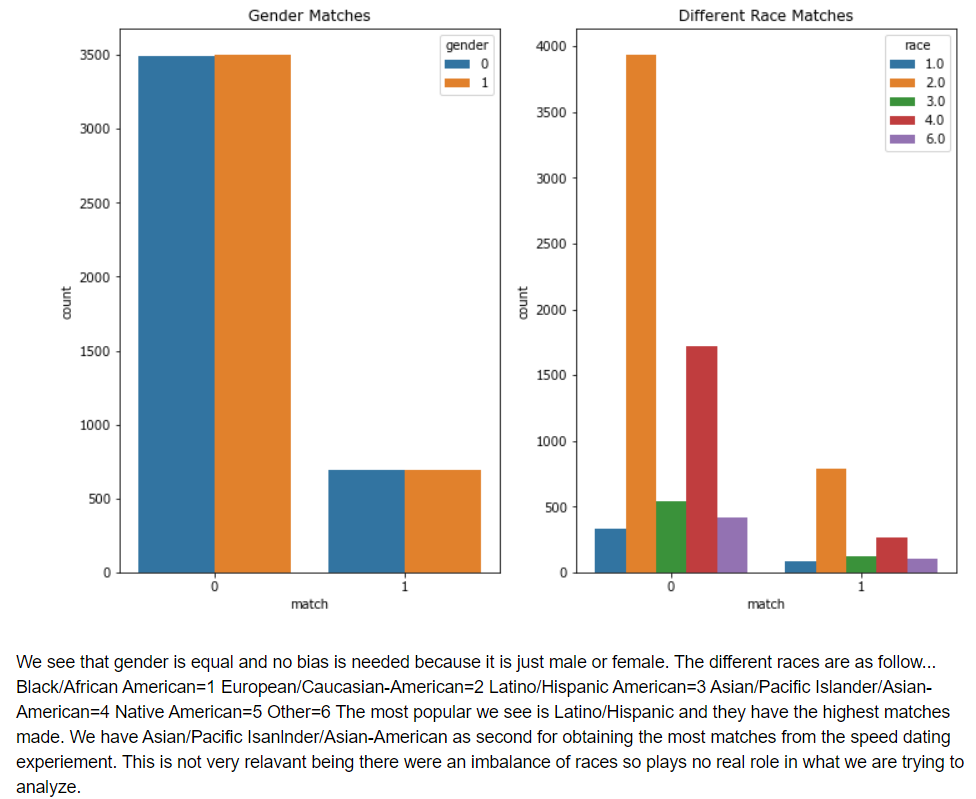
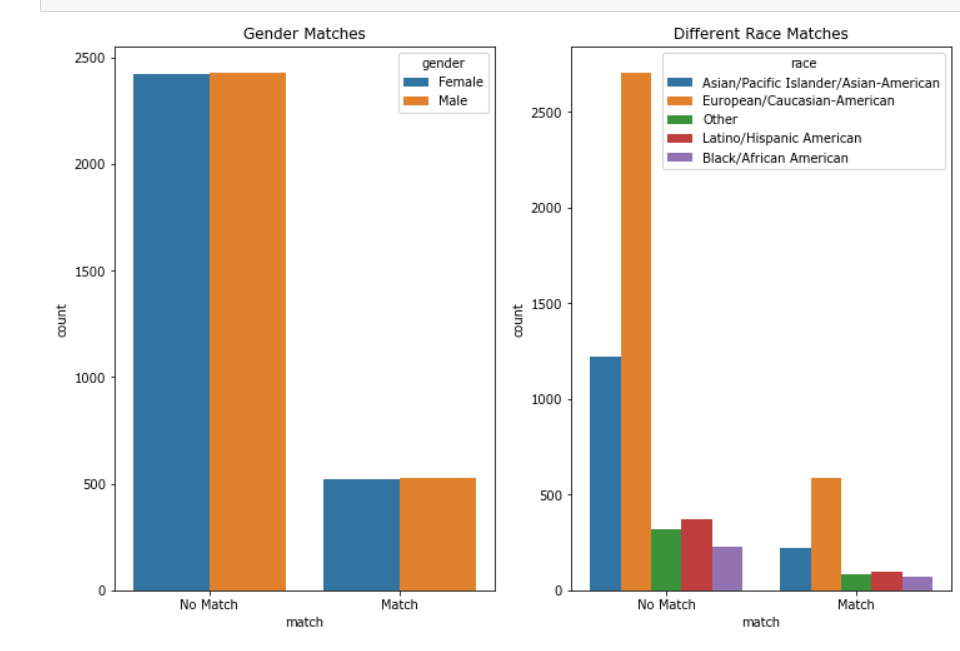
SG3 - KT - Adding images and modifications to the README.md file

Changed region(s): [[0.0, 0.0, 1.0, 1.0]]

diff --git a/README.md b/README.md
@@ -5,7 +5,7 @@ University of Miami, *Data Analytics Boot camp*, Final Project
 # Google Slides Presentation
 https://docs.google.com/presentation/d/e/2PACX-1vQrDJtNu8tUs8CXo1efHpvvtLu_8gVtY2kp-86YUJkOw_ofrlde-w-k8xCqwpE1SxQlDK_w8nynwsA2/pub?start=false&loop=false&delayms=15000
 
-## SEGMENT 1 and Segment 2
+## SEGMENT 1, Segment 2, and Segment 3
 
 ### Participants
 - Gajardoni, Ana
@@ -52,7 +52,7 @@ Fun topic and met requirements for machine learning project.
 
 #### Segment 3 
 - Gajardoni, Ana: Square Role: Complete peer reviews on the code. 
-- Thraher, Kristi: Triangle Role: Create a draft presentation to share with your class.
+- Thraher, Kristi: Triangle Role: Create a presentation to share with your class.
 - Gonzalez, David: Circle Role: Create a dashboard to display your findings.
 
 
@@ -63,24 +63,15 @@ GitHub contains the following requirements:
 * Main Branch
 * ReadME file
 * Individual Branches
-Individual Branches for each teammember were created 
+Individual Branches for each teammember were created in Github.
+https://github.com/DavidGGonzalez/TeamBlue_FinalProject.git
 
-Segment 1
 
-![Github branches](./Images/Github%20branches.png)
-
-Segment 2 
-
-![Segment2GitHubBranches](./Images/Segment2GitHubBranches.png)
-
-Segment 3
-<ADD PIMAGE OF OUR BRanches for segment 3 >
 
 ### Technologies:
 * Application development:  
   * Visual Code
   * Jupyter Notebook
-  * Flask (Web framework)
 
 * Data Management3372defd4526.png)
 
@@ -88,7 +79,7 @@ Segment 3
   * Pandas’ DataFrame
   * PostgreSQL
 
-* Developmen*t Languages, formatting, web visualization
+* Development Languages, formatting, web visualization
   * Python
   * JavaScript
   * HTML
@@ -98,9 +89,6 @@ Segment 3
 
 * Data Visualization
   * Tableau
-
-* Deployment environment
-  *	Heroku
 
 
 ## Machine Learning Model:
@@ -127,12 +115,12 @@ We decided we did not need all of this information so decided to simplify our da
 * Data Exploration/Visualizations 
 * For Fun we decided to see the distribution of matches for age, race, gender with matches and also how many matches were made. 
 
-![RaceAndGender](./Images/RaceAndGender.png)
 
+![RaceAnGender](./Images/RaceAndGender.png)
 
 ![AgeDistribution](./Images/AgeDistribution.png)
 
-![MatchDistribution](./Images/MatchDistribution.png)
+![MMatchDistribution](./Images/MatchDistribution.png)
 
 
 #### Data Cleaning
@@ -208,16 +196,26 @@ We chose to use two different classification algorithms to decide which one perf
 	
 	![LogRegTTE](./Images/LogRegTTE.png)
 	
-	* We see from accuracy score we had 0.6431587123608596 and confusion matrix shows 1160 True Positives, 87 True Negatives, 176 False Positives, and 54 False Negatives. The Classification Report showed an F1 score of .82 and Precision score of .82.    
-	
+	* We see from accuracy score we had 0.64% chance of this model predicting correctly if there is a match or not.  
+  The Classification Report showed an F1 score of .82 and Precision score of .82, and Recall Score of .84. 
 
+
+     -  Note: F1 Score: the mean of precision and recall scores. 
+      Recall: Useful measure of the success of prediction 
+      Accuracy: How good model is at predicting Match or No Match.
+	
 
 	##### Evaluate the BalancedRandomForest Model
 	
 	![RandomForestTTE](./Images/RandomForestTTE.png)
-	
-	* We see from accuracy score we had 0.7650979384995082 and confusion matrix shows 1160 True Positives, 87 True Negatives, 176 False Positives, and 54 False Negatives. The Classification Report showed an F1 score of .82 and Precision score of .82.
 
+  * We see from accuracy score we have a  0.77% chance of our model predicting correctly if there was a Match or not. 
+The Classification Report showed an F1 score of .78 and Precision score of .84, Recall score of .76. 
+
+- Note: 
+F1 Score: the mean of precision and recall scores. 
+Recall: Useful measure of the success of prediction 
+Accuracy: How good model is at predicting Match or No Match. 
 
 #### Conclusion and Summary of Machine Learning Model(s)
 The Main Goal of this project was to predict if there would be a match or not based on the input data provided. After some Data preprocessing and using visualizations such as the correlation matrix and others we were able to define a dataset by splitting it into training and testing data and ran two supervised machine learning algorithms with the data. In the end we saw that Balanced Random Forest Classifer algorithm showed a higher probability of predicting correctly than the Logistic Regression algorithm. 
